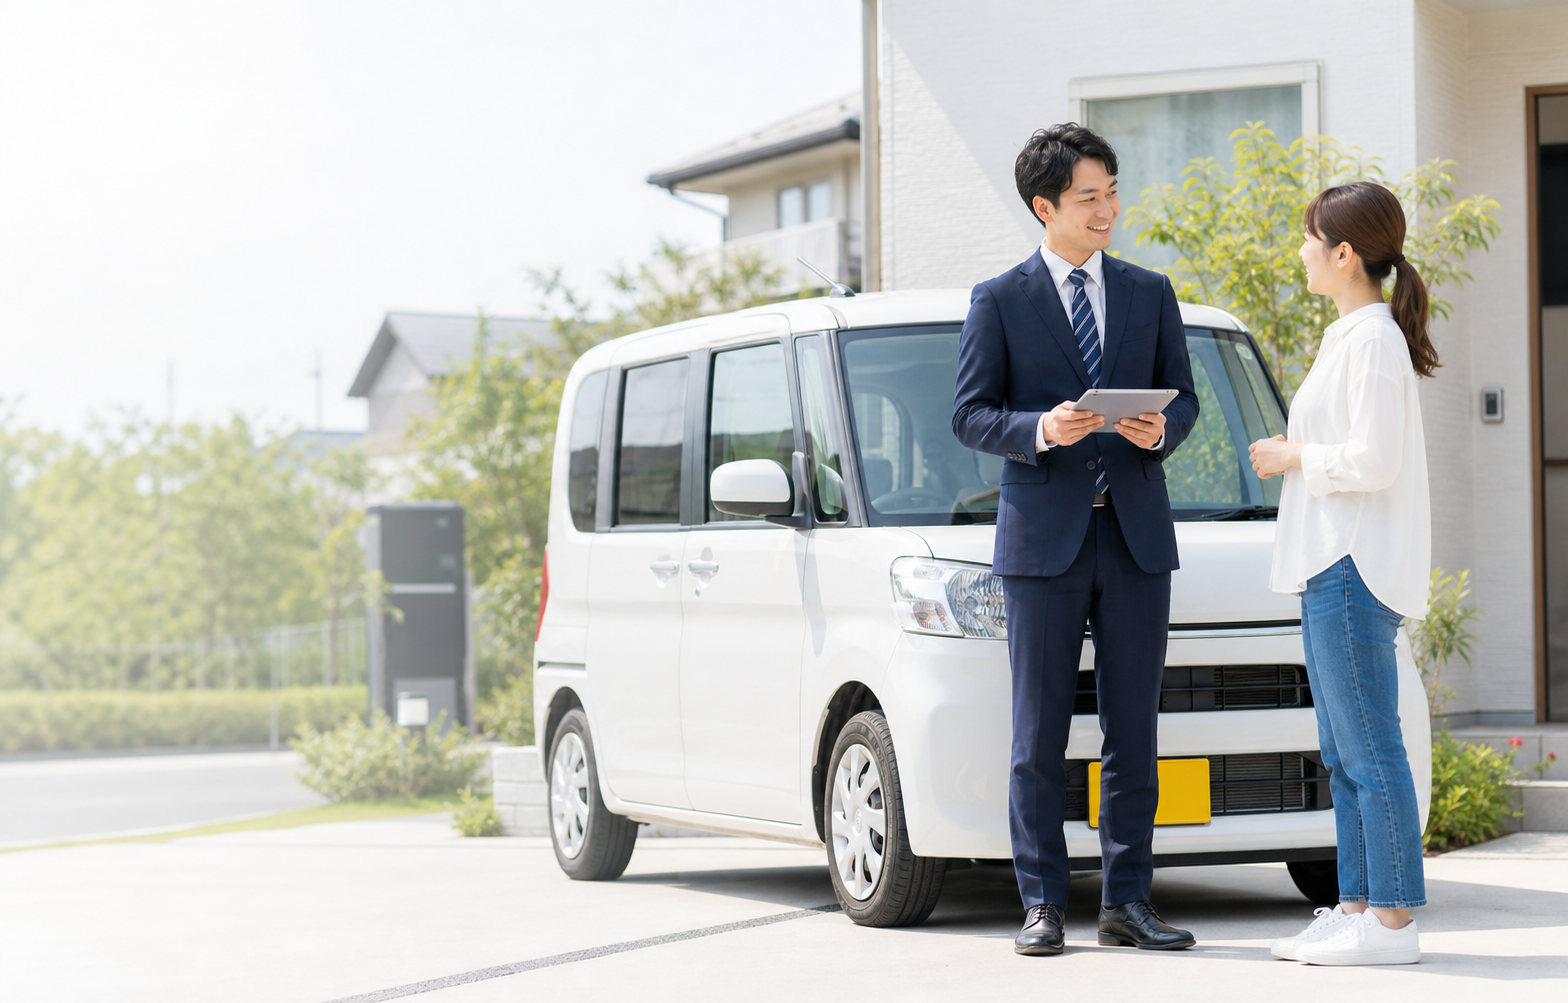
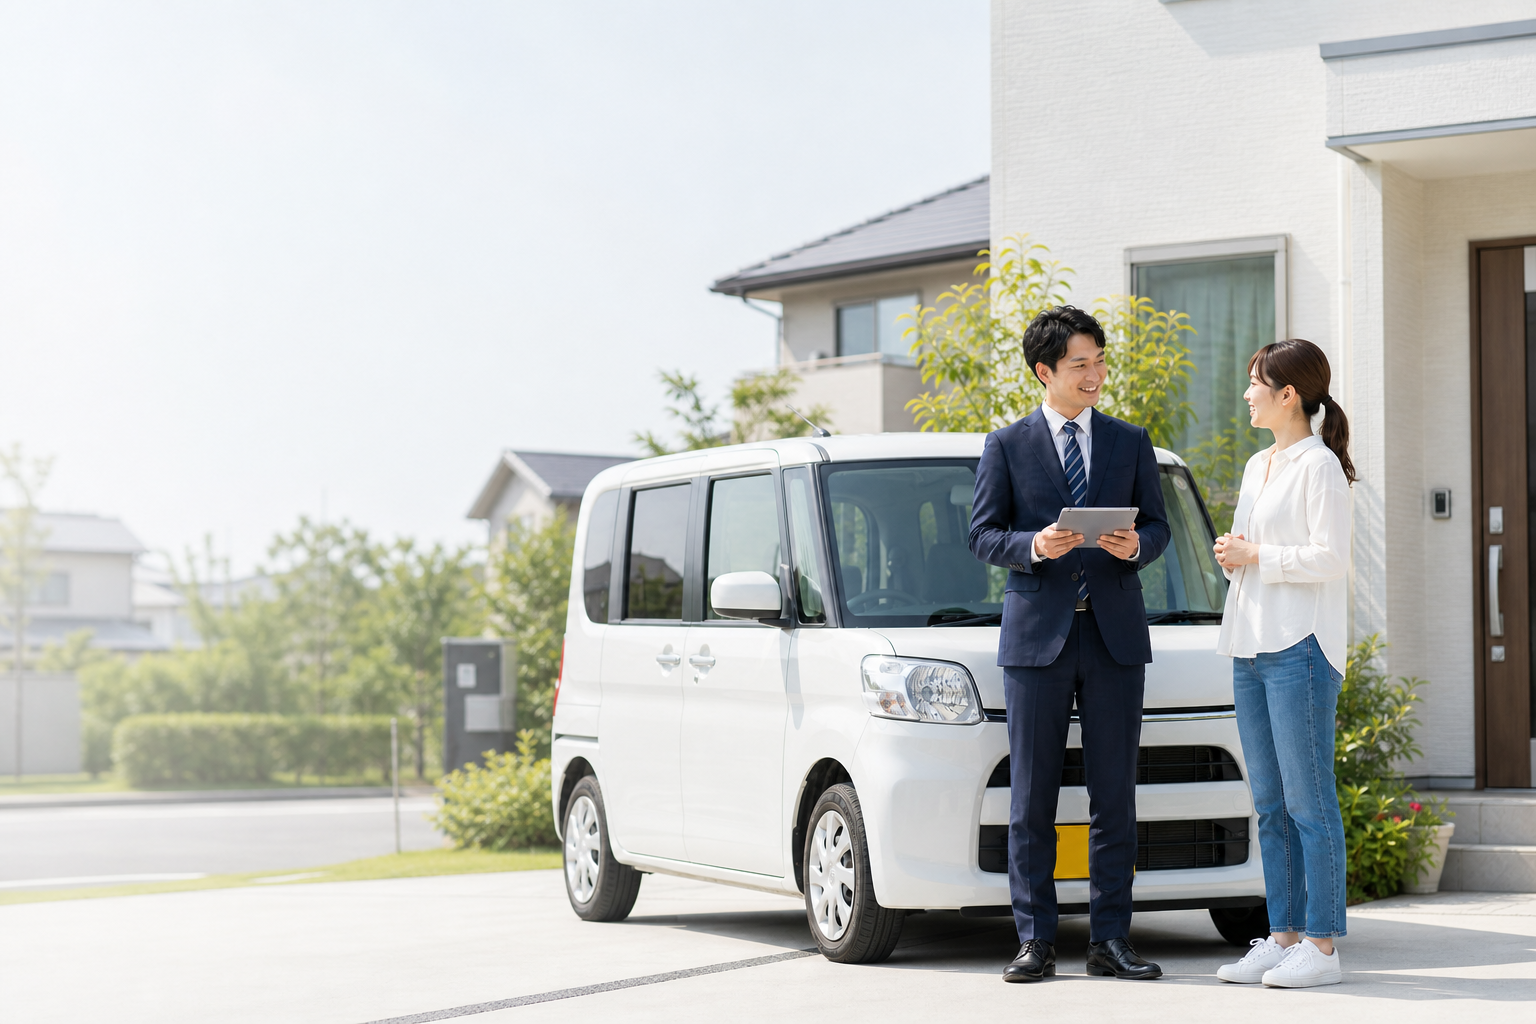
Recenter customer in hero image

diff --git a/404.html b/404.html
@@ -6,7 +6,7 @@
     <title>ページが見つかりません | おまかせカーサーチ</title>
     <meta name="description" content="お探しのページが見つかりませんでした。おまかせカーサーチのトップページや相談フォームへ戻れます。" />
     <meta name="robots" content="noindex, nofollow" />
-    <link rel="stylesheet" href="styles.css?v=footerbg1" />
+    <link rel="stylesheet" href="styles.css?v=footerbg2" />
   </head>
   <body>
     <header class="site-header">

diff --git a/about.html b/about.html
@@ -5,7 +5,7 @@
     <meta name="viewport" content="width=device-width, initial-scale=1.0" />
     <title>お店について | おまかせカーサーチ</title>
     <meta name="description" content="広島・山口を拠点に、格安の軽自動車探しとローンが不安な方の相談に対応するおまかせカーサーチの案内です。" />
-    <link rel="stylesheet" href="styles.css?v=footerbg1" />
+    <link rel="stylesheet" href="styles.css?v=footerbg2" />
   </head>
   <body>
     <header class="site-header">

diff --git a/admin.html b/admin.html
@@ -6,7 +6,7 @@
     <title>管理用ページ | おまかせカーサーチ</title>
     <meta name="description" content="おまかせカーサーチの車両データ管理用ページです。" />
     <meta name="robots" content="noindex, nofollow" />
-    <link rel="stylesheet" href="styles.css?v=footerbg1" />
+    <link rel="stylesheet" href="styles.css?v=footerbg2" />
   </head>
   <body class="admin-page">
     <header class="site-header admin-header">

diff --git a/consultation.html b/consultation.html
@@ -5,7 +5,7 @@
     <meta name="viewport" content="width=device-width, initial-scale=1.0" />
     <title>相談方法 | おまかせカーサーチ</title>
     <meta name="description" content="電話・メール・LINEの3つの相談方法をご案内します。" />
-    <link rel="stylesheet" href="styles.css?v=footerbg1" />
+    <link rel="stylesheet" href="styles.css?v=footerbg2" />
   </head>
   <body>
     <header class="site-header">

diff --git a/contact.html b/contact.html
@@ -5,7 +5,7 @@
     <meta name="viewport" content="width=device-width, initial-scale=1.0" />
     <title>格安軽・ローン相談フォーム | おまかせカーサーチ</title>
     <meta name="description" content="広島・山口を中心に、格安の軽自動車探しとローン審査が不安な方の相談を受け付けます。" />
-    <link rel="stylesheet" href="styles.css?v=footerbg1" />
+    <link rel="stylesheet" href="styles.css?v=footerbg2" />
   </head>
   <body>
     <header class="site-header">

diff --git a/examples.html b/examples.html
@@ -5,7 +5,7 @@
     <meta name="viewport" content="width=device-width, initial-scale=1.0" />
     <title>ご提案例 | おまかせカーサーチ</title>
     <meta name="description" content="過去のご提案例と、候補車を提案するときに確認するポイントをご案内します。" />
-    <link rel="stylesheet" href="styles.css?v=footerbg1" />
+    <link rel="stylesheet" href="styles.css?v=footerbg2" />
   </head>
   <body>
     <header class="site-header">

diff --git a/faq.html b/faq.html
@@ -5,7 +5,7 @@
     <meta name="viewport" content="width=device-width, initial-scale=1.0" />
     <title>よくある質問 | おまかせカーサーチ</title>
     <meta name="description" content="車探し相談、在庫、提案、購入手続きに関するよくある質問をまとめました。" />
-    <link rel="stylesheet" href="styles.css?v=footerbg1" />
+    <link rel="stylesheet" href="styles.css?v=footerbg2" />
   </head>
   <body>
     <header class="site-header">

diff --git a/flow.html b/flow.html
@@ -5,7 +5,7 @@
     <meta name="viewport" content="width=device-width, initial-scale=1.0" />
     <title>サービスの流れ | おまかせカーサーチ</title>
     <meta name="description" content="車探し相談から候補車の提案、購入・納車までの流れを詳しくご案内します。" />
-    <link rel="stylesheet" href="styles.css?v=footerbg1" />
+    <link rel="stylesheet" href="styles.css?v=footerbg2" />
   </head>
   <body>
     <header class="site-header">

diff --git a/index.html b/index.html
@@ -8,7 +8,7 @@
       name="description"
       content="広島・山口を中心に、格安の軽自動車探しとローン審査が不安な方の相談に対応します。全国対応も可能ですが、陸送費・別途費用がかかる場合があります。"
     />
-    <link rel="stylesheet" href="styles.css?v=footerbg1" />
+    <link rel="stylesheet" href="styles.css?v=footerbg2" />
   </head>
   <body class="home-page">
     <header class="site-header">

diff --git a/payment.html b/payment.html
@@ -5,7 +5,7 @@
     <meta name="viewport" content="width=device-width, initial-scale=1.0" />
     <title>支払い方法 | おまかせカーサーチ</title>
     <meta name="description" content="車購入時の現金一括、ローンの違いと相談時に確認するポイントを案内します。" />
-    <link rel="stylesheet" href="styles.css?v=footerbg1" />
+    <link rel="stylesheet" href="styles.css?v=footerbg2" />
   </head>
   <body>
     <header class="site-header">

diff --git a/privacy.html b/privacy.html
@@ -5,7 +5,7 @@
     <meta name="viewport" content="width=device-width, initial-scale=1.0" />
     <title>プライバシーポリシー | おまかせカーサーチ</title>
     <meta name="description" content="おまかせカーサーチの個人情報の取り扱いについてご案内します。" />
-    <link rel="stylesheet" href="styles.css?v=footerbg1" />
+    <link rel="stylesheet" href="styles.css?v=footerbg2" />
   </head>
   <body>
     <header class="site-header">

diff --git a/service.html b/service.html
@@ -5,7 +5,7 @@
     <meta name="viewport" content="width=device-width, initial-scale=1.0" />
     <title>対応内容 | おまかせカーサーチ</title>
     <meta name="description" content="条件整理、相場確認、候補車提案、購入後の相談まで対応内容を詳しくご案内します。" />
-    <link rel="stylesheet" href="styles.css?v=footerbg1" />
+    <link rel="stylesheet" href="styles.css?v=footerbg2" />
   </head>
   <body>
     <header class="site-header">